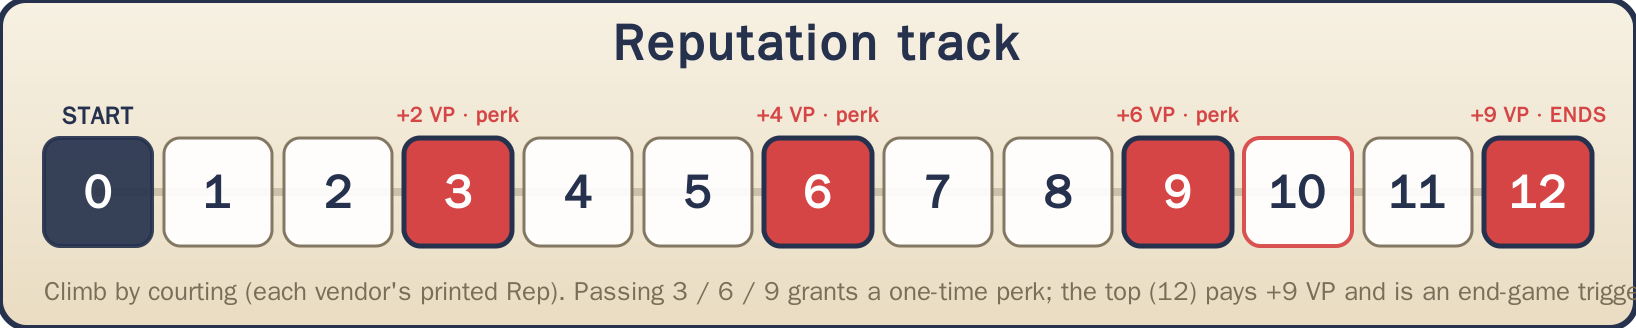
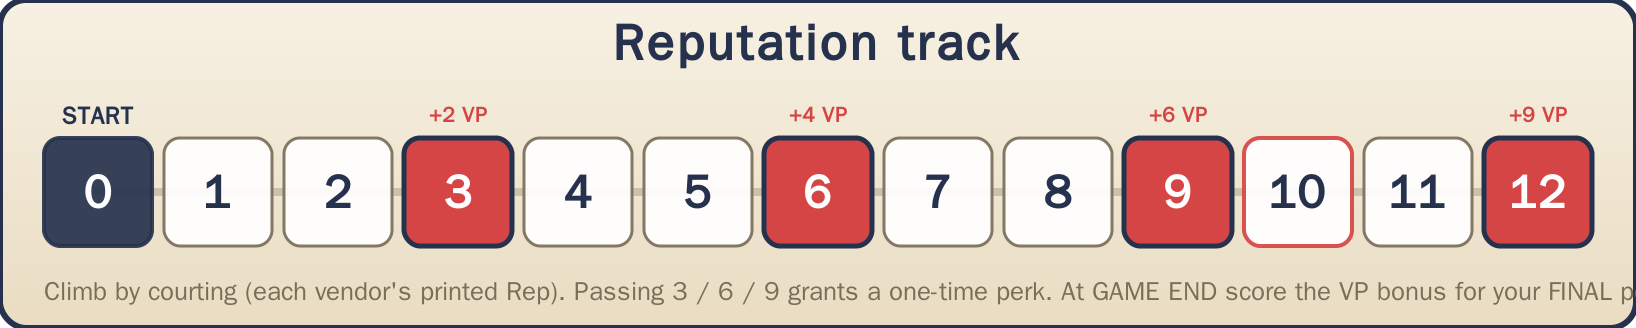
Travel Agents: fix stale Reputation-track label (12 no longer ends the game)
Why: playtest catch — the reputation-track render still labelled 12 as an
end-game trigger, left over from before the sim decoupled Rep-top from the
end-clock. Fixed the make.sh milestone label + note: Rep-top (12) pays +9
VP but does NOT end the game (the Season timer does), and clarified that
Reputation VP is scored for your FINAL position ONLY, not cumulative
(end at 3-5 -> +2, 6-8 -> +4, 9-11 -> +6, 12 -> +9). Same clarification
into the rules-draft scoring. Re-rendered the track.

diff --git a/games/travel-agents/design/rules-draft.md b/games/travel-agents/design/rules-draft.md
@@ -98,8 +98,9 @@ does **not** end the game — the Season timer paces the game so the engine has 
 ## 8. Scoring (reveal signature missions now!)
 Your markers already show two vectors live. Total four sources:
 1. **Prestige** — the sum of your vendors' stars (already on your score track).
-2. **Reputation** — end-VP by where your Rep marker sits (3→+2 · 6→+4 · 9→+6 · top→+9). *(You also
-   collected one-time perks as you passed 3 / 6 / 9.)*
+2. **Reputation** — score the VP for your **final** position **only** (NOT cumulative): end at 3–5 → **+2**
+   · 6–8 → **+4** · 9–11 → **+6** · 12 → **+9**. *(You also collected one-time perks as you passed 3 / 6 / 9
+   during play. Reaching 12 does **not** end the game — the Season timer does.)*
 3. **Region-Coverage** — distinct regions your vendors cover: **2→2 · 3→5 · all 4→9**.
 4. **Signature mission** — flip it: **+7** if you pulled off its vendor pattern, else 0.
 Add them up. Most points wins → **Top Agent**. **Ties:** highest Reputation, then most vendors, then most
